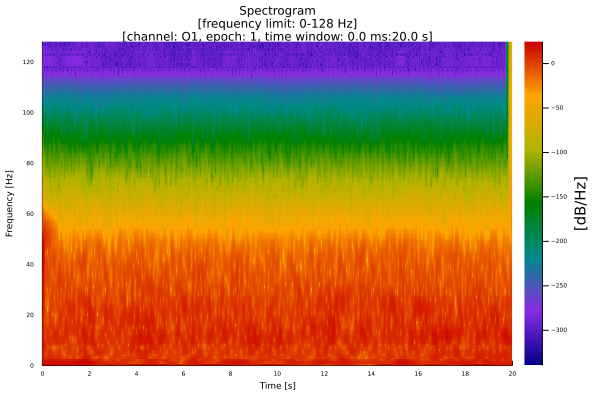
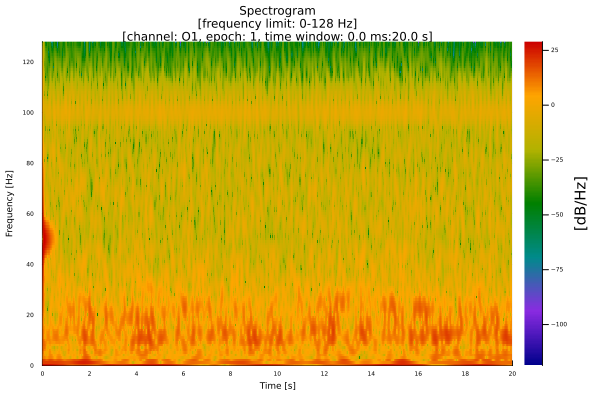
update: version 0.22.10 update: calculation of spectrograms using STFT update: Julia 1.8.2

diff --git a/docs/src/index.md b/docs/src/index.md
@@ -5,7 +5,6 @@ EditURL = "https://codeberg.org/AdamWysokinski/NeuroAnalyzer.jl/src/branch/maste
 ![](assets/neuroanalyzer.png)
 
 [NeuroAnalyzer.jl](https://codeberg.org/AdamWysokinski/NeuroAnalyzer.jl) is a [Julia](https://julialang.org) package for analyzing of EEG data.
-
 # NeuroAnalyzer.jl Documentation
 
 This documentation has been generated using [Documenter.jl](https://juliadocs.github.io/Documenter.jl/stable/).
@@ -99,7 +98,7 @@ s_pca_reconstruct(signal::AbstractArray; pc::AbstractArray, pc_m::PCA{Float64})
 s_fconv(signal::AbstractArray; kernel::Union{AbstractVector, Vector{ComplexF64}}, norm::Bool=false)
 s_ica(signal::AbstractArray; n::Int64, tol::Float64=1.0e-6, iter::Int64=100, f::Symbol=:tanh)
 s_ica_reconstruct(signal::AbstractArray; ic::AbstractArray, ic_mw::AbstractArray, ic_v::Union{Int64, Vector{Int64}, AbstractRange})
-s_spectrogram(signal::AbstractVector; fs::Int64, norm::Bool=true, mt::Bool=false, demean::Bool=true)
+s_spectrogram(signal::AbstractVector; fs::Int64, norm::Bool=true, mt::Bool=false, st=false, demean::Bool=true)
 s_detect_epoch_flat(signal::AbstractArray)
 s_detect_epoch_rmse(signal::AbstractArray)
 s_detect_epoch_rmsd(signal::AbstractArray)
@@ -204,6 +203,7 @@ eeg_save_electrodes(locs::DataFrame; file_name::String, overwrite::Bool=false)
 eeg_add_electrodes(eeg::NeuroAnalyzer.EEG; locs::DataFrame)
 eeg_add_electrodes!(eeg::NeuroAnalyzer.EEG; locs::DataFrame)
 eeg_import_bdf(file_name::String; clean_labels::Bool=true)
+eeg_import_digitrack(file_name::String; clean_labels::Bool=true)
 ```
 
 ## EEG edit
@@ -455,13 +455,13 @@ eeg_plot_signal_psd_butterfly(eeg::NeuroAnalyzer.EEG; epoch::Union{Int64, Abstra
 eeg_plot_component_psd(eeg::NeuroAnalyzer.EEG; c::Union{Array{Float64, 3}, Symbol}, epoch::Int64, channel::Int64, norm::Bool=true, mw::Bool=false, mt::Bool=false, frq_lim::Tuple{Real, Real}=(0, 0), ncyc::Union{Int64, Tuple{Int64, Int64}}=6, xlabel::String="Frequency [Hz]", ylabel::String="Power [dB]", title::String="", mono::Bool=false, ax::Symbol=:linlin, kwargs...)
 eeg_plot_component_psd_avg(eeg::NeuroAnalyzer.EEG; c::Union{Array{Float64, 3}, Symbol}, epoch::Int64, channel::Union{Int64, Vector{Int64}, AbstractRange}=0, norm::Bool=true, mw::Bool=false, mt::Bool=false, frq_lim::Tuple{Real, Real}=(0, 0), ncyc::Union{Int64, Tuple{Int64, Int64}}=6, xlabel::String="Frequency [Hz]", ylabel::String="Power [dB]", title::String="", mono::Bool=false, ax::Symbol=:linlin, kwargs...)
 eeg_plot_component_psd_butterfly(eeg::NeuroAnalyzer.EEG; c::Union{Array{Float64, 3}, Symbol}, epoch::Int64, channel::Union{Int64, Vector{Int64}, AbstractRange}=0, norm::Bool=true, mw::Bool=false, mt::Bool=false, frq_lim::Tuple{Real, Real}=(0, 0), ncyc::Union{Int64, Tuple{Int64, Int64}}=6, xlabel::String="Frequency [Hz]", ylabel::String="Power [dB]", title::String="", mono::Bool=false, kwargs...)
-plot_spectrogram(signal::AbstractVector; fs::Int64, offset::Real=0, norm::Bool=true, mw::Bool=false, mt::Bool=false, frq_lim::Tuple{Real, Real}=(0, 0), ncyc::Union{Int64, Tuple{Int64, Int64}}=6, xlabel="Time [s]", ylabel="Frequency [Hz]", title="", mono::Bool=false, kwargs...)
-eeg_plot_signal_spectrogram(eeg::NeuroAnalyzer.EEG; epoch::Union{Int64, AbstractRange}=0, channel::Union{Int64, Vector{Int64}, AbstractRange}, offset::Int64=0, len::Int64=0, norm::Bool=true, mw::Bool=false, mt::Bool=false, frq_lim::Tuple{Real, Real}=(0, 0), ncyc::Union{Int64, Tuple{Int64, Int64}}=6, xlabel::String="Time [s]", ylabel::String="", title::String="", mono::Bool=false, kwargs...)
-eeg_plot_signal_spectrogram_avg(eeg::NeuroAnalyzer.EEG; epoch::Union{Int64, AbstractRange}=0, channel::Union{Vector{Int64}, AbstractRange}, offset::Int64=0, len::Int64=0, norm::Bool=true, mw::Bool=false, mt::Bool=false, frq_lim::Tuple{Real, Real}=(0, 0), ncyc::Union{Int64, Tuple{Int64, Int64}}=6, xlabel::String="Time [s]", ylabel::String="Frequency [Hz]", title::String="", mono::Bool=false, kwargs...)
-eeg_plot_component_spectrogram(eeg::NeuroAnalyzer.EEG; c::Union{Array{Float64, 3}, Symbol}, epoch::Int64, channel::Union{Int64, AbstractRange}, norm::Bool=true, mw::Bool=false, mt::Bool=false, frq_lim::Tuple{Real, Real}=(0, 0), ncyc::Union{Int64, Tuple{Int64, Int64}}=6, xlabel::String="Frequency [Hz]", ylabel::String="", title::String="", mono::Bool=false, kwargs...)
-eeg_plot_component_spectrogram_avg(eeg::NeuroAnalyzer.EEG; c::Union{Array{Float64, 3}, Symbol}, epoch::Union{Int64, AbstractRange}=0, channel::Union{Vector{Int64}, AbstractRange}, offset::Int64=0, len::Int64=0, norm::Bool=true, mw::Bool=false, mt::Bool=false, frq_lim::Tuple{Real, Real}=(0, 0), ncyc::Union{Int64, Tuple{Int64, Int64}}=6, xlabel::String="Time [s]", ylabel::String="Frequency [Hz]", title::String="", mono::Bool=false, kwargs...)
-eeg_plot_component_idx_spectrogram(eeg::NeuroAnalyzer.EEG; c::Union{Array{Float64, 3}, Symbol}, epoch::Int64, c_idx::Union{Int64, Vector{Int64}, AbstractRange}, norm::Bool=true, mw::Bool=false, mt::Bool=false, frq_lim::Tuple{Real, Real}=(0, 0), ncyc::Union{Int64, Tuple{Int64, Int64}}=6, xlabel::String="Time [s]", ylabel::String="Frequency [Hz]", title::String="", mono::Bool=false, kwargs...)
-eeg_plot_component_idx_spectrogram_avg(eeg::NeuroAnalyzer.EEG; c::Union{Array{Float64, 3}, Symbol}, epoch::Int64, c_idx::Union{Int64, Vector{Int64}, AbstractRange}=0, norm::Bool=true, mw::Bool=false, mt::Bool=false, frq_lim::Tuple{Real, Real}=(0, 0), ncyc::Union{Int64, Tuple{Int64, Int64}}=6, xlabel::String="Time [s]", ylabel::String="Frequency [Hz]", title::String="", mono::Bool=false, kwargs...)
+plot_spectrogram(signal::AbstractVector; fs::Int64, offset::Real=0, norm::Bool=true, mw::Bool=false, mt::Bool=false, st::Bool=false, frq_lim::Tuple{Real, Real}=(0, 0), ncyc::Union{Int64, Tuple{Int64, Int64}}=6, xlabel="Time [s]", ylabel="Frequency [Hz]", title="", mono::Bool=false, kwargs...)
+eeg_plot_signal_spectrogram(eeg::NeuroAnalyzer.EEG; epoch::Union{Int64, AbstractRange}=0, channel::Union{Int64, Vector{Int64}, AbstractRange}, offset::Int64=0, len::Int64=0, norm::Bool=true, mw::Bool=false, mt::Bool=false, st::Bool=false, frq_lim::Tuple{Real, Real}=(0, 0), ncyc::Union{Int64, Tuple{Int64, Int64}}=6, xlabel::String="Time [s]", ylabel::String="", title::String="", mono::Bool=false, kwargs...)
+eeg_plot_signal_spectrogram_avg(eeg::NeuroAnalyzer.EEG; epoch::Union{Int64, AbstractRange}=0, channel::Union{Vector{Int64}, AbstractRange}, offset::Int64=0, len::Int64=0, norm::Bool=true, mw::Bool=false, mt::Bool=false, st::Bool=false, frq_lim::Tuple{Real, Real}=(0, 0), ncyc::Union{Int64, Tuple{Int64, Int64}}=6, xlabel::String="Time [s]", ylabel::String="Frequency [Hz]", title::String="", mono::Bool=false, kwargs...)
+eeg_plot_component_spectrogram(eeg::NeuroAnalyzer.EEG; c::Union{Array{Float64, 3}, Symbol}, epoch::Int64, channel::Union{Int64, AbstractRange}, norm::Bool=true, mw::Bool=false, mt::Bool=false, st::Bool=false, frq_lim::Tuple{Real, Real}=(0, 0), ncyc::Union{Int64, Tuple{Int64, Int64}}=6, xlabel::String="Frequency [Hz]", ylabel::String="", title::String="", mono::Bool=false, kwargs...)
+eeg_plot_component_spectrogram_avg(eeg::NeuroAnalyzer.EEG; c::Union{Array{Float64, 3}, Symbol}, epoch::Union{Int64, AbstractRange}=0, channel::Union{Vector{Int64}, AbstractRange}, offset::Int64=0, len::Int64=0, norm::Bool=true, mw::Bool=false, mt::Bool=false, st::Bool=false, frq_lim::Tuple{Real, Real}=(0, 0), ncyc::Union{Int64, Tuple{Int64, Int64}}=6, xlabel::String="Time [s]", ylabel::String="Frequency [Hz]", title::String="", mono::Bool=false, kwargs...)
+eeg_plot_component_idx_spectrogram(eeg::NeuroAnalyzer.EEG; c::Union{Array{Float64, 3}, Symbol}, epoch::Int64, c_idx::Union{Int64, Vector{Int64}, AbstractRange}, norm::Bool=true, mw::Bool=false, mt::Bool=false, st::Bool=false, frq_lim::Tuple{Real, Real}=(0, 0), ncyc::Union{Int64, Tuple{Int64, Int64}}=6, xlabel::String="Time [s]", ylabel::String="Frequency [Hz]", title::String="", mono::Bool=false, kwargs...)
+eeg_plot_component_idx_spectrogram_avg(eeg::NeuroAnalyzer.EEG; c::Union{Array{Float64, 3}, Symbol}, epoch::Int64, c_idx::Union{Int64, Vector{Int64}, AbstractRange}=0, norm::Bool=true, mw::Bool=false, mt::Bool=false, st::Bool=false, frq_lim::Tuple{Real, Real}=(0, 0), ncyc::Union{Int64, Tuple{Int64, Int64}}=6, xlabel::String="Time [s]", ylabel::String="Frequency [Hz]", title::String="", mono::Bool=false, kwargs...)
 eeg_plot_electrodes(eeg::NeuroAnalyzer.EEG; channel::Union{Int64, Vector{Int64}, AbstractRange}=0, selected::Union{Int64, Vector{Int64}, AbstractRange}=0, labels::Bool=true, head::Bool=true, head_labels::Bool=false, small::Bool=false, mono::Bool=false, kwargs...)
 eeg_plot_matrix(eeg::NeuroAnalyzer.EEG, m::Union{Matrix{<:Real}, Array{<:Real, 3}}; epoch::Int64=1, mono::Bool=false, kwargs...)
 eeg_plot_covmatrix(eeg::NeuroAnalyzer.EEG, cov_m::Union{Matrix{<:Real}, Array{<:Real, 3}}, lags::AbstractVector; channel::Union{Int64, Vector{Int64}, AbstractRange}=0, epoch::Int64=1, mono::Bool=false, kwargs...)

diff --git a/Documentation.md b/Documentation.md
@@ -4,7 +4,7 @@
 ![](assets/neuroanalyzer.png)
 
 
-NeuroAnalyzer is a [Julia](https://julialang.org) package for analyzing of EEG data.
+[NeuroAnalyzer.jl](https://codeberg.org/AdamWysokinski/NeuroAnalyzer.jl) is a [Julia](https://julialang.org) package for analyzing of EEG data.
 
 
 <a id='NeuroAnalyzer.jl-Documentation'></a>
@@ -1734,7 +1734,7 @@ Reconstructs `signal` using removal of `ic_v` ICA components.
 
 
 ```julia
-s_spectrogram(signal; fs, norm, mt, demean)
+s_spectrogram(signal; fs, norm, mt, st, demean)
 ```
 
 Calculate spectrogram of `signal`.
@@ -1745,6 +1745,7 @@ Calculate spectrogram of `signal`.
   * `fs::Int64`: sampling frequency
   * `norm::Bool=true`: normalize powers to dB
   * `mt::Bool=false`: if true use multi-tapered spectrogram
+  * `st::Bool=false`: if true use short time Fourier transform
   * `demean::Bool=true`: demean signal prior to analysis
 
 **Returns**
@@ -3848,6 +3849,28 @@ Load BDF/BDF+ file and return and `NeuroAnalyzer.EEG` object.
 **Source**
 
 https://www.biosemi.com/faq/file_format.htm
+
+<a id='NeuroAnalyzer.eeg_import_digitrack-Tuple{String}' href='#NeuroAnalyzer.eeg_import_digitrack-Tuple{String}'>#</a>
+**`NeuroAnalyzer.eeg_import_digitrack`** &mdash; *Method*.
+
+
+
+```julia
+eeg_import_digitrack(file_name; clean_labels)
+```
+
+Load Digitrack ASCII file and return and `NeuroAnalyzer.EEG` object.
+
+**Arguments**
+
+  * `file_name::String`: name of the file to load
+  * `clean_labels::Bool=true`: only keep channel names in channel labels
+
+**Returns**
+
+  * `eeg:EEG`
+
+**Notes**
 
 
 <a id='EEG-edit'></a>
@@ -6951,7 +6974,7 @@ Named tuple containing:
 
 
 ```julia
-eeg_spectrogram(eeg; norm, mt, demean)
+eeg_spectrogram(eeg; norm, mt, st, demean)
 ```
 
 Return spectrogram of `eeg`.
@@ -6961,6 +6984,7 @@ Return spectrogram of `eeg`.
   * `eeg::NeuroAnalyzer.EEG`
   * `norm::Bool=true`: normalize powers to dB
   * `mt::Bool=false`: if true use multi-tapered spectrogram
+  * `st::Bool=false`: if true use short time Fourier transform
   * `demean::Bool=true`: demean signal prior to analysis
 
 **Returns**
@@ -8997,6 +9021,7 @@ Plot spectrogram of `signal`.
   * `norm::Bool=true`: normalize powers to dB
   * `mw::Bool=false`: if true use Morlet wavelet convolution
   * `mt::Bool=false`: if true use multi-tapered spectrogram
+  * `st::Bool=false`: if true use short time Fourier transform
   * `frq_lim::Tuple{Real, Real}=(0, 0)`: y-axis limits
   * `ncyc::Union{Int64, Tuple{Int64, Int64}}=6`: number of cycles for Morlet wavelet
   * `xlabel::String="Time [s]"`: x-axis label
@@ -9030,6 +9055,7 @@ Plots spectrogram of `eeg` channel(s).
   * `norm::Bool=true`: normalize powers to dB
   * `mw::Bool=false`: if true use Morlet wavelet convolution
   * `mt::Bool=false`: if true use multi-tapered spectrogram
+  * `st::Bool=false`: if true use short-time Fourier transform spectrogram
   * `xlabel::String="Time [s]"`: x-axis label
   * `ylabel::String=""`: y-axis label
   * `title::String=""`: plot title
@@ -9063,6 +9089,7 @@ Plots spectrogram of `eeg` channel(s).
   * `norm::Bool=true`: normalize powers to dB
   * `mw::Bool=false`: if true use Morlet wavelet convolution
   * `mt::Bool=false`: if true use multi-tapered spectrogram
+  * `st::Bool=false`: if true use short time Fourier transform
   * `xlabel::String="Time [s]"`: x-axis label
   * `ylabel::String="Frequency [Hz]"`: y-axis label
   * `title::String=""`: plot title
@@ -9095,6 +9122,7 @@ Plots spectrogram of `eeg` external or embedded component.
   * `norm::Bool=true`: normalize powers to dB
   * `mw::Bool=false`: if true use Morlet wavelet convolution
   * `mt::Bool=false`: if true use multi-tapered spectrogram
+  * `st::Bool=false`: if true use short time Fourier transform
   * `frq_lim::Tuple{Real, Real}=(0, 0)`: x-axis limit
   * `ncyc::Union{Int64, Tuple{Int64, Int64}}=6`: number of cycles for Morlet wavelet
   * `xlabel::String="Frequency [Hz]`: x-axis label
@@ -9129,6 +9157,7 @@ Plots spectrogram of `eeg` channel(s).
   * `norm::Bool=true`: normalize powers to dB
   * `mw::Bool=false`: if true use Morlet wavelet convolution
   * `mt::Bool=false`: if true use multi-tapered spectrogram
+  * `st::Bool=false`: if true use short time Fourier transform
   * `xlabel::String="Time [s]"`: x-axis label
   * `ylabel::String="Frequency [Hz]"`: y-axis label
   * `title::String=""`: plot title
@@ -9161,6 +9190,7 @@ Plot spectrogram of indexed `eeg` external or embedded component.
   * `norm::Bool=true`: normalize powers to dB
   * `mw::Bool=false`: if true use Morlet wavelet convolution
   * `mt::Bool=false`: if true use multi-tapered spectrogram
+  * `st::Bool=false`: if true use short time Fourier transform
   * `frq_lim::Tuple{Real, Real}=(0, 0)`: x-axis limit
   * `ncyc::Union{Int64, Tuple{Int64, Int64}}=6`: number of cycles for Morlet wavelet
   * `xlabel::String="Times [s]`: x-axis label
@@ -9193,6 +9223,7 @@ Plot spectrogram of averaged indexed `eeg` external or embedded component.
   * `norm::Bool=true`: normalize powers to dB
   * `mw::Bool=false`: if true use Morlet wavelet convolution
   * `mt::Bool=false`: if true use multi-tapered spectrogram
+  * `st::Bool=false`: if true use short time Fourier transform
   * `frq_lim::Tuple{Real, Real}=(0, 0)`: x-axis limit
   * `ncyc::Union{Int64, Tuple{Int64, Int64}}=6`: number of cycles for Morlet wavelet
   * `xlabel::String="Time [s]"`: x-axis label

diff --git a/Tutorial.md b/Tutorial.md
@@ -682,15 +682,23 @@ p = eeg_plot_signal_spectrogram(edf, channel=9, norm=true)
 eeg_plot_save(p, file_name="images/edf_spec1.png")
 ```
 
+![spectrogram](images/edf_spec1.png)
+
 Plot spectrogram using wavelet convolution and variable number of Morlet-wavelet cycles:
 ```julia
 p = eeg_plot_signal_spectrogram(edf, channel=9, norm=true, mw=true, ncyc=(2, 32))
 eeg_plot_save(p, file_name="images/edf_spec2.png")
 ```
 
-![edf topo :amp](images/edf_spec1.png)
+![spectrogram MW](images/edf_spec2.png)
 
-![edf topo :amp](images/edf_spec2.png)
+Plot spectrogram using STFT:
+```julia
+p = eeg_plot_signal_spectrogram(edf, channel=9, norm=true, st=true)
+eeg_plot_save(p, file_name="images/edf_spec4.png")
+```
+
+![spectrogram ST](images/edf_spec4.png)
 
 Plot multi-channel spectrogram:
 ```julia
@@ -698,7 +706,7 @@ p = eeg_plot_signal_spectrogram(edf, channel=1:19, len=1024, norm=true, frq_lim=
 eeg_plot_save(p, file_name="images/edf_spec3.png")
 ```
 
-![edf topo :amp](images/edf_spec3.png)
+![edf mc-spectrogram](images/edf_spec3.png)
 
 Plot PSD, x and y axes are log10-scaled:
 ```julia
